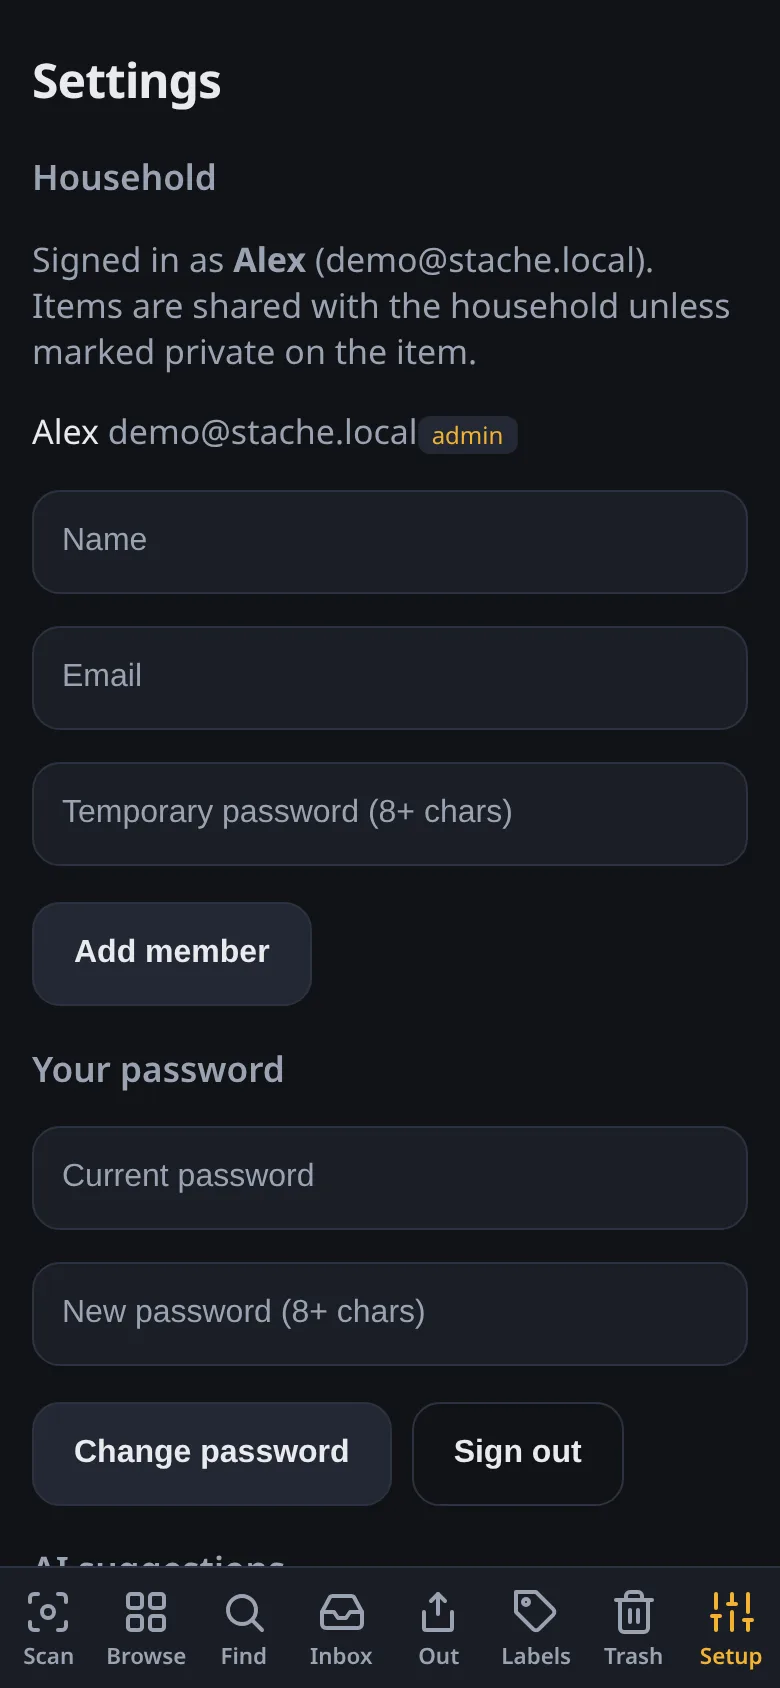
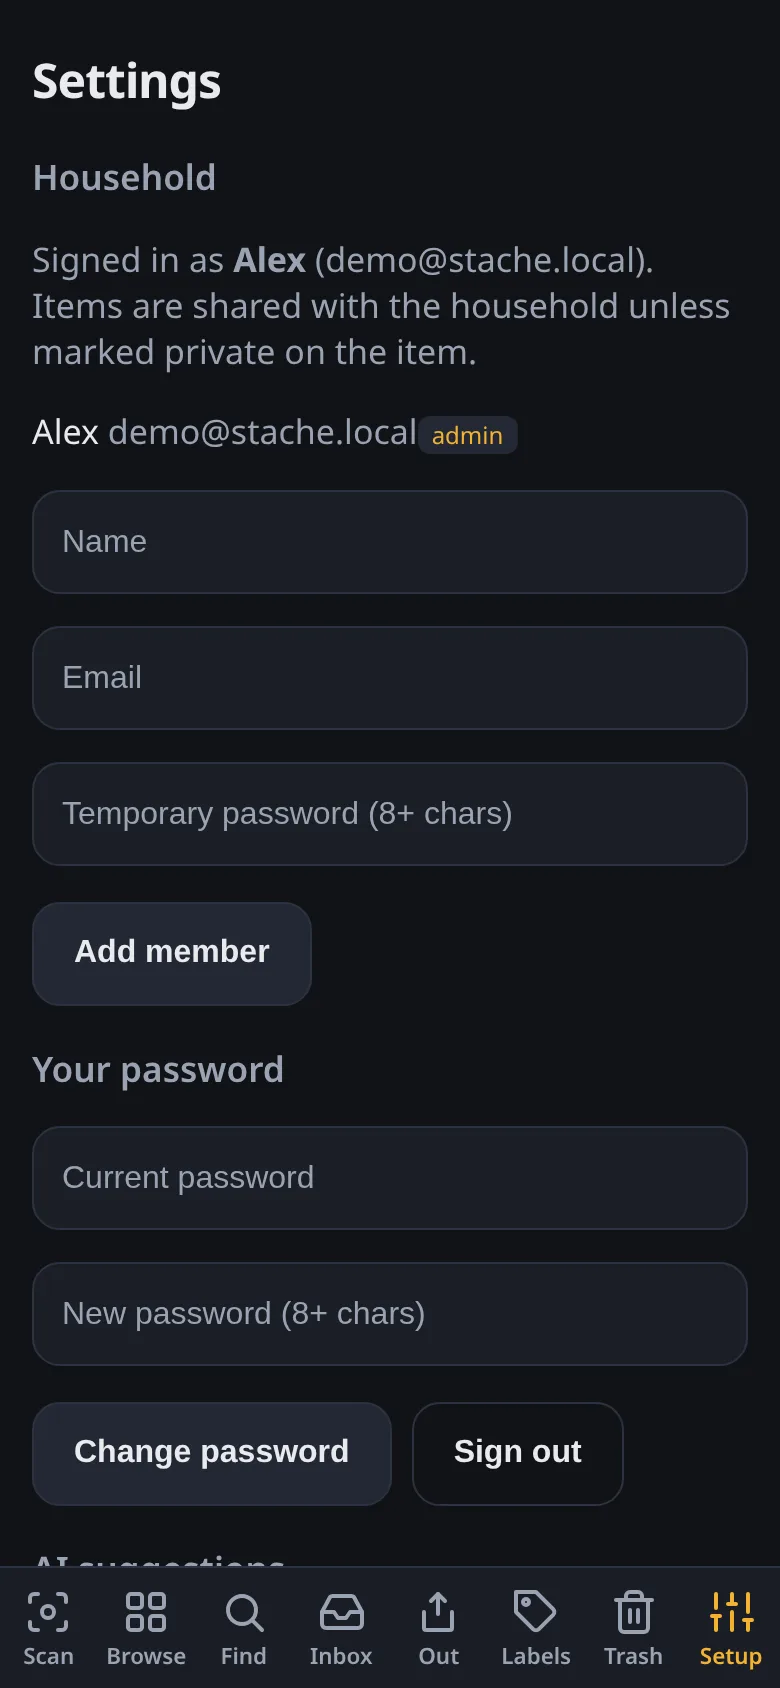
Apply homepage/docs accuracy review
Homepage:
- New "Your stuff, available to your AI" feature section for MCP
- Recognition framed as built-in (it is on by default); dropped the
  "nothing sent away" absolute — remote providers exist
- Undo section softened to "most changes can be undone" (was an
  overpromise) and retitled "Mistakes are cheap"
- Barcode copy no longer promises a complete fill
- Footer privacy line: "your inventory and photos live on your own
  server" instead of "photos never leave your house"

Docs:
- ai.md moved to Using Stache; rewritten for default-on, remote as
  upgrade path, private-item exclusion, corrected ~400 MB download
- Backups: scheduled backups are unencrypted; encrypted is manual-only
- FAQ: AI default + offline nuance (queue/sync vs. what needs network)
- adding-items: default-on wording, "like most actions" undo phrasing
- shots.mjs gains a scroll-to-text option; captured mcp.webp off a
  seeded "Claude" MCP connection

REVIEW.md is gitignored — local notes only.

Generated with [Devin](https://devin.ai)

diff --git a/src/content/docs/docs/using/ai.md b/src/content/docs/docs/using/ai.md
@@ -1,0 +1,30 @@
+---
+title: AI suggestions
+description: Built-in recognition that suggests names, tags, and details — never overwrites.
+---
+
+AI recognition is **on by default** — no setup needed. New photos get suggested names, descriptions, and tags in the background. It only ever *suggests*: nothing lands in an item's real fields without your confirmation.
+
+## What it does
+
+- **Suggests names, descriptions, and tags** for new photos
+- **Reads text** in photos (labels, serials, receipts)
+- **Split pile** — breaks a photo of many things into separate items you approve
+- **Visual similarity** — CLIP embeddings power search-by-photo (in-process, local)
+
+## Providers
+
+**Built-in (local)** — bundled Florence-2, runs offline after a one-time ~400 MB download into `/data` on first use. Nothing leaves your network.
+
+**Remote** — any OpenAI-compatible `/chat/completions` endpoint with a vision model: Ollama, LM Studio, or a hosted provider. This is an upgrade path, not a requirement — handy if you already run a stronger model. Photos a remote provider processes do leave your server, but **private items are never sent**.
+
+Configure in **Settings → AI suggestions**. The compose file already maps `host.docker.internal` to your Docker host, so a service running outside the container (e.g. Ollama at `http://host.docker.internal:11434/v1`) is reachable at that address.
+
+## Turning it off
+
+Prefer no AI at all? Turn it off in **Settings → AI suggestions**, or set `STACHE_NO_ML=1` to disable ML entirely on constrained hosts — everything else keeps working.
+
+## Resource notes
+
+- CLIP (photo similarity) loads lazily on first embed — ~200 MB idle becomes ~450–550 MB warm.
+- AI is non-blocking: filing works with no models loaded, and failures land in the Review queue for a one-tap retry.

diff --git a/src/content/docs/docs/using/adding-items.md b/src/content/docs/docs/using/adding-items.md
@@ -31,7 +31,7 @@ Photograph a receipt and Stache can split it into separate items — one photo, 
 
 ## AI suggestions
 
-If you turn on [AI suggestions](/docs/extras/ai/), new photos get suggested names, descriptions, and tags in the background — always as suggestions you confirm, never silent overwrites. "Split pile" can even break a photo of many things into separate items you approve.
+New photos get suggested names, descriptions, and tags in the background via [AI suggestions](/docs/using/ai/) — always as suggestions you confirm, never silent overwrites. "Split pile" can even break a photo of many things into separate items you approve. It's on by default; turn it off in Settings if you'd rather not use it.
 
 ## The Review queue
 
@@ -39,4 +39,4 @@ If you turn on [AI suggestions](/docs/extras/ai/), new photos get suggested name
 
 ## Undo
 
-Filing an item is undoable like everything else. The toast that appears after each action has **Undo** — or find it later in the item's history.
+Filing an item is undoable, like most actions. The toast that appears after each action has **Undo** — or find it later in the item's history.

diff --git a/src/content/docs/docs/reference/faq.md b/src/content/docs/docs/reference/faq.md
@@ -17,11 +17,11 @@ Partially. Browsers only allow the live viewfinder in a [secure context](https:/
 
 ## Do I need the AI stuff?
 
-No — it's off by default. Filing, searching, labels, out-tracking all work with no models downloaded. AI is a layer that *suggests* names/tags/descriptions; you confirm everything. See [AI suggestions](/docs/extras/ai/).
+It's on by default, but you don't have to think about it — it just *suggests* names/tags/descriptions in the background and you confirm or ignore. Everything works with it off too (`STACHE_NO_ML=1`, or the toggle in Settings). See [AI suggestions](/docs/using/ai/).
 
 ## Is there a mobile app?
 
-Stache is a PWA — open it on your phone and "Add to Home Screen." It works offline too: photos and scans queue locally and sync when you're back in signal.
+Stache is a PWA — open it on your phone and "Add to Home Screen." It works offline too: photos and scans queue locally and sync once your server is reachable again. Things that need the outside world — barcode lookups, a remote AI provider — wait for a connection; everything local keeps working.
 
 ## How do backups work?
 

diff --git a/src/content/docs/docs/extras/backups.md b/src/content/docs/docs/extras/backups.md
@@ -13,7 +13,9 @@ Stache keeps **everything** in one place: the SQLite database, all photos, and t
 
 ## Built-in scheduler (opt-in)
 
-Stache can write scheduled backups itself — **Settings → Backup**. It produces a bundle (a plaintext `manifest.json` plus a `payload.zip`, optionally encrypted) into `/data/backups`. The interval is gated by the `backup_schedule` setting — it's off until you opt in.
+Stache can write scheduled backups itself — **Settings → Backup**. Each one is a plaintext `manifest.json` plus a `payload.zip` under `/data/backups`. **Scheduled backups are not encrypted** — protect that folder like you'd protect the raw data. Encrypted backup downloads are available manually in the same screen.
+
+The interval is gated by the `backup_schedule` setting — it's off until you opt in.
 
 ## Restore
 
